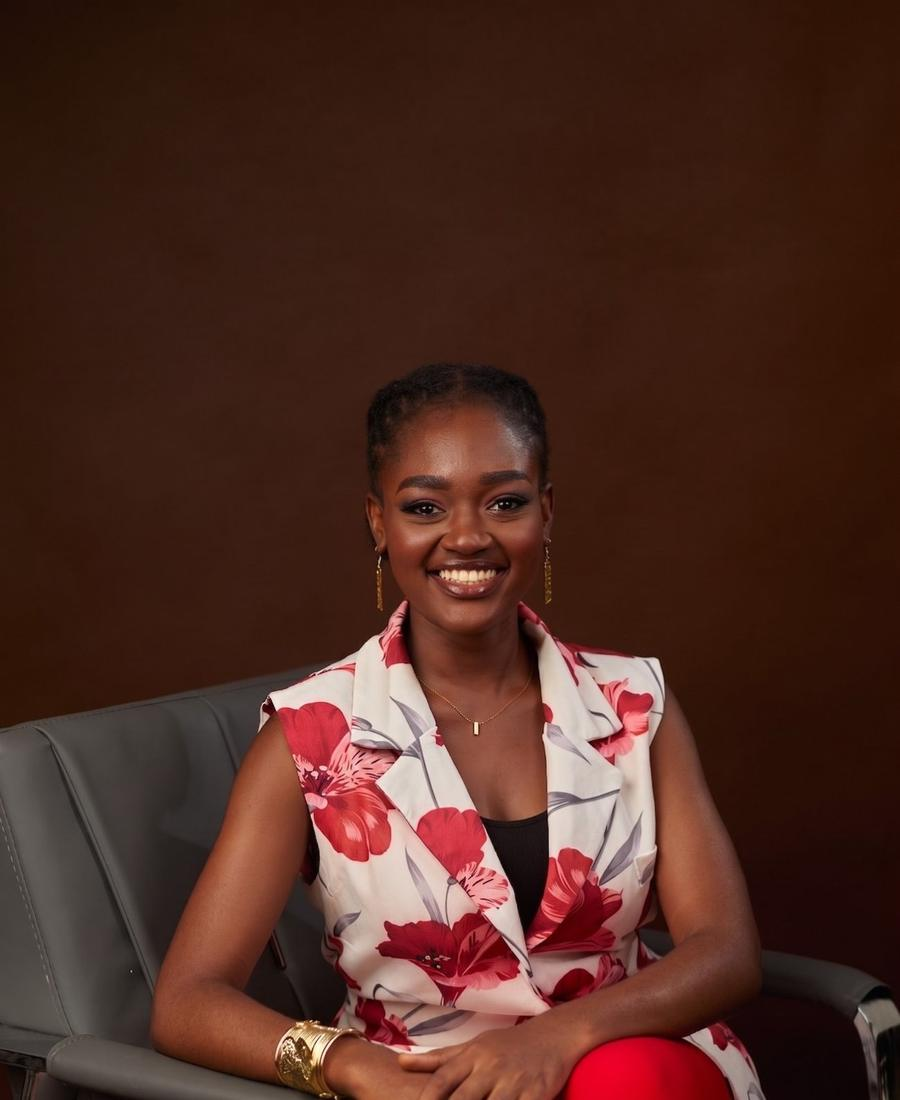
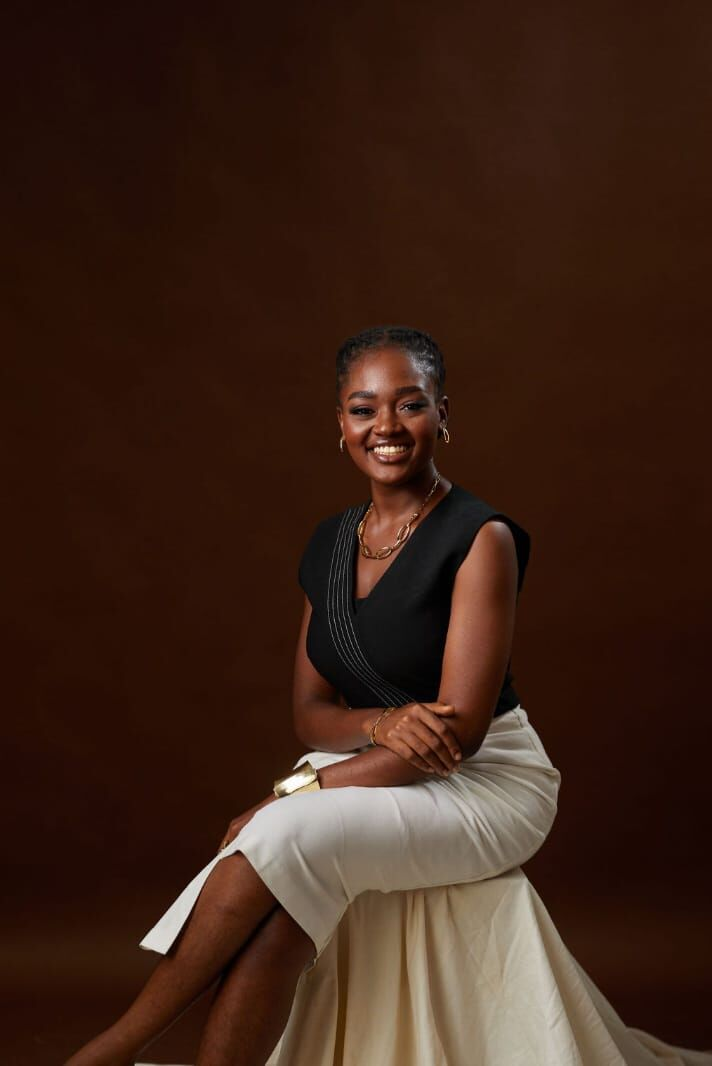
Add real photos to the hero, field notes, work, talks and press
Replace the stand-in portrait and product shots in the person-focused
sections with Vanessa's own photos, resized and recompressed for the web
(metadata stripped, progressive JPEG, max 1600px, no upscaling).

- Hero and share image: studio portrait on the brown backdrop
- Field notes: graduation, ASSAG Student Activist of the Year 2025 trophy
  and citation, Top Intern behind-the-scenes; heading updated to match
- Work: finale photo for Top Intern; Business Challenge entry now 2024,
  2nd runner-up (from the cheque photo); graduation photo for UPSA
- Talks: Top Intern stage, finale podium, Business Challenge pitch
- Press: new portraits for the 3News, Academic City and sample clips
- Remove stand-ins no longer used (heritage, spoon, jars)

Banini Butter product shots stay in the brand sections, since no real
product photos were supplied.

Claude-Session: https://claude.ai/code/session_01DoW3Pz3wUogi3bxtAy4jYU

diff --git a/index.html b/index.html
@@ -244,7 +244,7 @@ img{display:block}
 .clip .cimg{width:72px;height:72px;object-fit:cover;filter:grayscale(1);transition:filter .4s}
 .clip:hover .cimg,.clip:focus-visible .cimg,.clip.on .cimg{filter:none}
 .clip-body{min-width:0}
-.quote .qimg{width:100%;aspect-ratio:3/2;object-fit:cover;margin-bottom:24px;transition:opacity .35s}
+.quote .qimg{width:100%;aspect-ratio:3/2;object-fit:cover;object-position:50% 22%;margin-bottom:24px;transition:opacity .35s}
 .quote .qimg.swap{opacity:0}
 
 /* M6 clippings */
@@ -320,7 +320,7 @@ footer .wrap{display:flex;flex-wrap:wrap;justify-content:space-between;gap:16px;
 
 <main>
   <section class="hero cover" id="top" aria-label="Introduction">
-    <figure class="cover-photo"><img id="portraitImg" src="assets/img/portrait.jpg" alt="Vanessa Woenam Banini, seated, in a floral jacket" fetchpriority="high"></figure>
+    <figure class="cover-photo"><img id="portraitImg" src="assets/img/portrait.jpg" alt="Vanessa Woenam Banini, seated, in a black top against a brown backdrop" fetchpriority="high"></figure>
     <div class="wrap cover-inner">
       <p class="dateline"><span>Accra, Ghana</span><span>The founder issue</span><span>No. 01 · 2026</span></p>
       <h1 class="name" id="name">Vanessa<span class="sr-only"> Woenam Banini</span></h1>
@@ -361,17 +361,18 @@ footer .wrap{display:flex;flex-wrap:wrap;justify-content:space-between;gap:16px;
       </div>
       <div class="main">
         <p class="eyebrow">Field notes</p>
-        <h2>From the savannah to the shelf.</h2>
+        <h2>A few frames from the last two years.</h2>
       </div>
     </div>
     <div class="sheet-track" id="sheetTrack">
       <div class="sheet-pin" id="sheetPin">
         <div class="film" id="film">
-          <figure class="frame"><div class="ph"><img src="assets/img/basket.jpg" alt="A woven basket of shea nuts, some cracked open, at dusk" loading="lazy"></div><figcaption><b>01A</b>Shea nuts, Northern Region</figcaption></figure>
-          <figure class="frame" style="--ar:3/5"><div class="ph"><img src="assets/img/nuts.jpg" alt="Whole shea nuts on a wooden board" loading="lazy"></div><figcaption><b>02A</b>Kernels before pressing</figcaption></figure>
-          <figure class="frame" id="pickFrame"><svg class="pick" viewBox="0 0 100 100" preserveAspectRatio="none" aria-hidden="true"><path pathLength="1" d="M52 3 C 82 2, 99 22, 98 50 C 97 80, 76 98, 48 97 C 18 96, 2 78, 3 49 C 4 22, 22 5, 56 6"/></svg><div class="ph"><img src="assets/img/spoon.jpg" alt="A brass spoon lifting whipped shea butter from a jar" loading="lazy"></div><figcaption><b>03A</b>Whipped, never melted</figcaption></figure>
-          <figure class="frame"><div class="ph"><img src="assets/img/jars.jpg" alt="Three Banini Butter jars in different sizes by a window" loading="lazy"></div><figcaption><b>04A</b>Three sizes, one standard</figcaption></figure>
-          <figure class="frame"><div class="ph"><img src="assets/img/range.jpg" alt="The full Banini Butter range with packaging" loading="lazy"></div><figcaption><b>05A</b>The range</figcaption></figure>
+          <figure class="frame" style="--ar:4/5"><div class="ph"><img src="assets/img/fn-graduation-fountain.jpg" alt="Vanessa in graduation gown and kente stole, holding a bouquet by a fountain" loading="lazy"></div><figcaption><b>01A</b>Graduation day</figcaption></figure>
+          <figure class="frame" style="--ar:3/5"><div class="ph"><img src="assets/img/fn-graduation-cap.jpg" alt="From behind: a red graduation cap, long braids and a bouquet of red and white flowers" loading="lazy"></div><figcaption><b>02A</b>Cap, gown, flowers</figcaption></figure>
+          <figure class="frame" id="pickFrame" style="--ar:3/5"><svg class="pick" viewBox="0 0 100 100" preserveAspectRatio="none" aria-hidden="true"><path pathLength="1" d="M52 3 C 82 2, 99 22, 98 50 C 97 80, 76 98, 48 97 C 18 96, 2 78, 3 49 C 4 22, 22 5, 56 6"/></svg><div class="ph"><img src="assets/img/fn-trophy.jpg" alt="Glass trophy from the ASSAG Excellence Awards: Student Activist of the Year, winner, presented to Vanessa Banini" loading="lazy"></div><figcaption><b>03A</b>Student Activist of the Year, 2025</figcaption></figure>
+          <figure class="frame" style="--ar:3/5"><div class="ph"><img src="assets/img/fn-citation.jpg" alt="A framed citation in honour of Vanessa Banini from the Actuarial Science Students' Association of Ghana" loading="lazy"></div><figcaption><b>04A</b>The citation that came with it</figcaption></figure>
+          <figure class="frame" style="--ar:3/4"><div class="ph"><img src="assets/img/fn-top-intern.jpg" alt="Vanessa in a navy dress in a hotel corridor, smiling" loading="lazy"></div><figcaption><b>05A</b>Between tasks on The Top Intern</figcaption></figure>
+          <figure class="frame" style="--ar:2/3"><div class="ph"><img src="assets/img/fn-smile.jpg" alt="Vanessa outdoors in a bright orange top, laughing" loading="lazy"></div><figcaption><b>06A</b>Off duty</figcaption></figure>
         </div>
       </div>
     </div>
@@ -429,9 +430,9 @@ footer .wrap{display:flex;flex-wrap:wrap;justify-content:space-between;gap:16px;
           <div class="odo-wrap"><div class="odo" id="odo" aria-hidden="true"></div><span class="eyebrow" id="odoLabel">Now</span></div>
           <ol class="entries" id="entries">
             <li class="entry on" data-year="2026"><div class="yr">2026 · Founder</div><h3>Banini Butter</h3><p>Whipped shea butter in four blends, sourced from women's cooperatives near Tamale and made in small batches in Accra.</p><img class="thumb" src="assets/img/range.jpg" alt="The Banini Butter range" loading="lazy"></li>
-            <li class="entry" data-year="2026"><div class="yr">2026 · Winner</div><h3>TV3 The Top Intern, Season 3</h3><p>Won the season on national television, with a full Master's scholarship from Academic City University.</p><img class="thumb" src="assets/img/portrait.jpg" alt="Vanessa Woenam Banini" loading="lazy" style="object-position:50% 40%"></li>
-            <li class="entry" data-year="2025"><div class="yr">2025 <span class="sample">Year to confirm</span></div><h3>MTN Business Challenge</h3><p>Pitched to judges in the MTN-backed student business competition. Tell me the year and how far you went.</p><img class="thumb" src="assets/img/heritage.jpg" alt="Stand-in photo" loading="lazy"></li>
-            <li class="entry" data-year="2022"><div class="yr">2022 <span class="sample">Year to confirm</span></div><h3>Actuarial Science, University of Professional Studies, Accra</h3><p>Where the numbers side of the work started.</p><img class="thumb" src="assets/img/basket.jpg" alt="Stand-in photo" loading="lazy"></li>
+            <li class="entry" data-year="2026"><div class="yr">2026 · Winner</div><h3>TV3 The Top Intern, Season 3</h3><p>Won the season on national television, with a full Master's scholarship from Academic City University.</p><img class="thumb" src="assets/img/work-top-intern-finale.jpg" alt="Vanessa on stage at The Top Intern finale as sparklers go off" loading="lazy"></li>
+            <li class="entry" data-year="2024"><div class="yr">2024 · 2nd runner-up</div><h3>MTN Business Challenge</h3><p>Pitched to judges at the UPSA Business Challenge 2024, sponsored by MTN Pulse, and placed second runner-up.</p><img class="thumb" src="assets/img/work-business-challenge.jpg" alt="Vanessa receiving the second runner-up cheque for GH¢1,500 at the Business Challenge 2024" loading="lazy"></li>
+            <li class="entry" data-year="2022"><div class="yr">2022 <span class="sample">Year to confirm</span></div><h3>Actuarial Science, University of Professional Studies, Accra</h3><p>Where the numbers side of the work started.</p><img class="thumb" src="assets/img/work-upsa-graduation.jpg" alt="Vanessa at graduation in a kente stole printed with her name" loading="lazy" style="object-position:50% 25%"></li>
           </ol>
         </div>
       </div>
@@ -447,19 +448,19 @@ footer .wrap{display:flex;flex-wrap:wrap;justify-content:space-between;gap:16px;
         <h2>On stage, on camera, in front of judges.</h2>
         <div class="talks">
           <a class="talk" href="#talks" data-missing>
-            <div class="tph"><img src="assets/img/portrait.jpg" alt="" loading="lazy" style="object-position:50% 35%"><span class="play" aria-hidden="true"><svg viewBox="0 0 100 100"><path class="ring" pathLength="1" d="M50 6 C 76 5, 95 24, 94 50 C 93 77, 74 95, 49 94 C 23 93, 5 75, 6 49 C 7 25, 26 7, 56 8"/><path class="tri" d="M42 35 L66 50 L42 65 Z"/></svg></span></div>
+            <div class="tph"><img src="assets/img/talk-top-intern-stage.jpg" alt="" loading="lazy" style="object-position:50% 30%"><span class="play" aria-hidden="true"><svg viewBox="0 0 100 100"><path class="ring" pathLength="1" d="M50 6 C 76 5, 95 24, 94 50 C 93 77, 74 95, 49 94 C 23 93, 5 75, 6 49 C 7 25, 26 7, 56 8"/><path class="tri" d="M42 35 L66 50 L42 65 Z"/></svg></span></div>
             <span class="tmeta">TV3 · The Top Intern, Season 3</span>
             <h3>Presentation during the competition</h3>
             <span class="tlink">Video link needed</span>
           </a>
           <a class="talk" href="#talks" data-missing>
-            <div class="tph"><img src="assets/img/jars.jpg" alt="" loading="lazy"><span class="play" aria-hidden="true"><svg viewBox="0 0 100 100"><path class="ring" pathLength="1" d="M50 6 C 76 5, 95 24, 94 50 C 93 77, 74 95, 49 94 C 23 93, 5 75, 6 49 C 7 25, 26 7, 56 8"/><path class="tri" d="M42 35 L66 50 L42 65 Z"/></svg></span></div>
+            <div class="tph"><img src="assets/img/talk-finale-podium.jpg" alt="" loading="lazy" style="object-position:50% 40%"><span class="play" aria-hidden="true"><svg viewBox="0 0 100 100"><path class="ring" pathLength="1" d="M50 6 C 76 5, 95 24, 94 50 C 93 77, 74 95, 49 94 C 23 93, 5 75, 6 49 C 7 25, 26 7, 56 8"/><path class="tri" d="M42 35 L66 50 L42 65 Z"/></svg></span></div>
             <span class="tmeta">TV3 · The Top Intern, Grand Finale</span>
             <h3>Final presentation on finale night</h3>
             <span class="tlink">Video link needed</span>
           </a>
           <a class="talk" href="#talks" data-missing>
-            <div class="tph"><img src="assets/img/range.jpg" alt="" loading="lazy"><span class="play" aria-hidden="true"><svg viewBox="0 0 100 100"><path class="ring" pathLength="1" d="M50 6 C 76 5, 95 24, 94 50 C 93 77, 74 95, 49 94 C 23 93, 5 75, 6 49 C 7 25, 26 7, 56 8"/><path class="tri" d="M42 35 L66 50 L42 65 Z"/></svg></span></div>
+            <div class="tph"><img src="assets/img/talk-business-challenge.jpg" alt="" loading="lazy"><span class="play" aria-hidden="true"><svg viewBox="0 0 100 100"><path class="ring" pathLength="1" d="M50 6 C 76 5, 95 24, 94 50 C 93 77, 74 95, 49 94 C 23 93, 5 75, 6 49 C 7 25, 26 7, 56 8"/><path class="tri" d="M42 35 L66 50 L42 65 Z"/></svg></span></div>
             <span class="tmeta">MTN Business Challenge</span>
             <h3>Business pitch to the judges</h3>
             <span class="tlink">Video link needed</span>
@@ -477,11 +478,11 @@ footer .wrap{display:flex;flex-wrap:wrap;justify-content:space-between;gap:16px;
         <p class="eyebrow">Press</p>
         <h2>Written about, quoted, interviewed.</h2>
         <div class="press">
-          <figure class="quote" aria-hidden="true"><img class="qimg" id="pqi" src="assets/img/portrait.jpg" alt=""><blockquote id="pq">The Season 3 winner looks back on the competition, the hardest moments, and finding her competitive edge.</blockquote><figcaption id="pqc">3News · Feature</figcaption></figure>
+          <figure class="quote" aria-hidden="true"><img class="qimg" id="pqi" src="assets/img/press-3news.jpg" alt=""><blockquote id="pq">The Season 3 winner looks back on the competition, the hardest moments, and finding her competitive edge.</blockquote><figcaption id="pqc">3News · Feature</figcaption></figure>
           <ul class="clips" id="clips">
-            <li><a class="clip on" href="https://3news.com/education/tv3-top-intern-season-3-winner-vanessa-woenam-banini-reflects-on-victory-journey" target="_blank" rel="noopener" data-q="The Season 3 winner looks back on the competition, the hardest moments, and finding her competitive edge." data-c="3News · Feature" data-i="assets/img/portrait.jpg"><img class="cimg" src="assets/img/portrait.jpg" alt="" loading="lazy"><div class="clip-body"><span class="meta"><span>3News</span><span>Feature · 2026</span></span><h3>TV3 Top Intern Season 3 winner Vanessa Woenam Banini reflects on victory journey</h3><span class="q">The Season 3 winner looks back on the competition, the hardest moments, and finding her competitive edge.</span></div></a></li>
-            <li><a class="clip" href="https://x.com/acitygh/status/2085335338973528483" target="_blank" rel="noopener" data-q="Academic City University congratulates the winner of TV3's Top Intern on a full Master's scholarship worth GH¢107,700." data-c="Academic City University · Announcement" data-i="assets/img/sizes.jpg"><img class="cimg" src="assets/img/sizes.jpg" alt="" loading="lazy"><div class="clip-body"><span class="meta"><span>Academic City University</span><span>Announcement · Aug 2026</span></span><h3>A full Master's scholarship for the Top Intern winner</h3><span class="q">Academic City University congratulates the winner of TV3's Top Intern on a full Master's scholarship worth GH¢107,700.</span></div></a></li>
-            <li><a class="clip" href="#press" data-q="A slot for the next interview or profile. Send me the link and I'll add it here." data-c="Your next feature" data-i="assets/img/spoon.jpg"><img class="cimg" src="assets/img/spoon.jpg" alt="" loading="lazy"><div class="clip-body"><span class="meta"><span>Next feature <span class="sample">Sample</span></span><span>Interview</span></span><h3>Your next interview or profile goes here</h3><span class="q">A slot for the next interview or profile. Send me the link and I'll add it here.</span></div></a></li>
+            <li><a class="clip on" href="https://3news.com/education/tv3-top-intern-season-3-winner-vanessa-woenam-banini-reflects-on-victory-journey" target="_blank" rel="noopener" data-q="The Season 3 winner looks back on the competition, the hardest moments, and finding her competitive edge." data-c="3News · Feature" data-i="assets/img/press-3news.jpg"><img class="cimg" src="assets/img/press-3news.jpg" alt="" loading="lazy"><div class="clip-body"><span class="meta"><span>3News</span><span>Feature · 2026</span></span><h3>TV3 Top Intern Season 3 winner Vanessa Woenam Banini reflects on victory journey</h3><span class="q">The Season 3 winner looks back on the competition, the hardest moments, and finding her competitive edge.</span></div></a></li>
+            <li><a class="clip" href="https://x.com/acitygh/status/2085335338973528483" target="_blank" rel="noopener" data-q="Academic City University congratulates the winner of TV3's Top Intern on a full Master's scholarship worth GH¢107,700." data-c="Academic City University · Announcement" data-i="assets/img/press-acity.jpg"><img class="cimg" src="assets/img/press-acity.jpg" alt="" loading="lazy"><div class="clip-body"><span class="meta"><span>Academic City University</span><span>Announcement · Aug 2026</span></span><h3>A full Master's scholarship for the Top Intern winner</h3><span class="q">Academic City University congratulates the winner of TV3's Top Intern on a full Master's scholarship worth GH¢107,700.</span></div></a></li>
+            <li><a class="clip" href="#press" data-q="A slot for the next interview or profile. Send me the link and I'll add it here." data-c="Your next feature" data-i="assets/img/press-next.jpg"><img class="cimg" src="assets/img/press-next.jpg" alt="" loading="lazy"><div class="clip-body"><span class="meta"><span>Next feature <span class="sample">Sample</span></span><span>Interview</span></span><h3>Your next interview or profile goes here</h3><span class="q">A slot for the next interview or profile. Send me the link and I'll add it here.</span></div></a></li>
           </ul>
         </div>
       </div>
